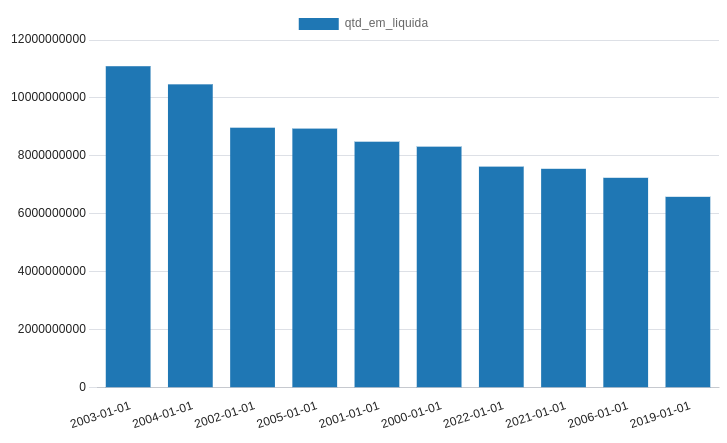
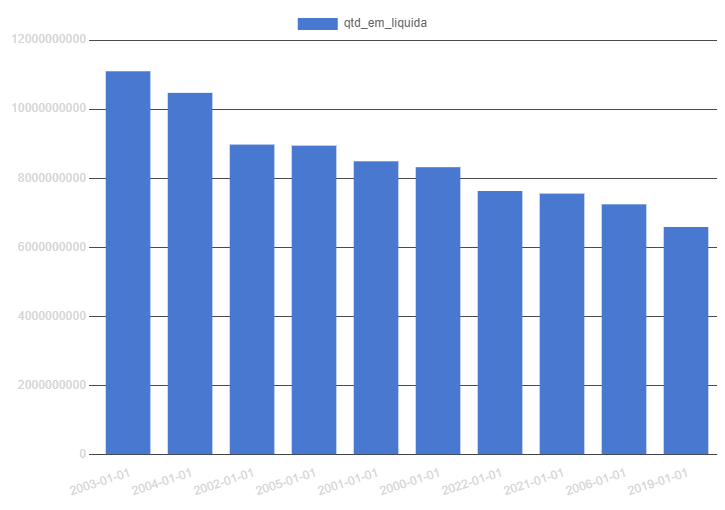
update Readme

diff --git a/README.md b/README.md
@@ -6,6 +6,7 @@
 * [Tecnologias utilizadas](#tecnologias-utilizadas)
 * [Datasets](#datasets)
 * [Consultas Geradas](#consultas-geradas)
+* [Gráficos dos resultados obtidos](#gráficos-dos-resultados-obtidos)
 
 ## Sobre o projeto
 Autores:
@@ -18,10 +19,14 @@ Autores:
 
 ## Modelagem do Banco de Dados
 ### Imagem 1: Modelo Conceitual (Diagrama MER)
-![](https://github.com/luizlenharo/MC536/blob/main/models/modeloConceitual.jpg)
+<p align="center">
+  <img src="./models/modeloConceitual.jpg" alt="Modelo Conceitual" width="700"/>
+</p>
 
 ### Imagem 2: Modelo Relacional
-![](https://github.com/luizlenharo/MC536/blob/main/models/modeloRelacional.png)
+<p align="center">
+  <img src="./models/modeloRelacional.png" alt="Modelo Relacional" width="700"/>
+</p>
 
 ## Tecnologias utilizadas
 * **Banco de dados:** `PostgreSQL`  
@@ -48,27 +53,46 @@ Autores:
 #### SEEG
 1. Deixamos apenas a página da planilha de dados.
 2. Selecionamos apenas as colunas referentes à origem, produto, gás e localização.
-3. Salvamos a planilha resultante em [`gasesEE-entidades.csv`](https://github.com/luizlenharo/MC536/blob/main/dataset/gasesEE-entidades.csv)
+3. Salvamos a planilha resultante em [`gasesEE-entidades.csv`](./dataset/gasesEE-entidades.csv)
 4. Retornamos para a planilha original (planilha de dados).
 5. Separamos a planilha de dados em 4 chunks de tamanho semelhante.
-6. Salvamos cada uma das partes em [`gasesEE-medicoes_Ci.csv`](https://github.com/luizlenharo/MC536/tree/main/dataset), sendo i o número de cada chunk
+6. Salvamos cada uma das partes em [`gasesEE-medicoes_Ci.csv`](./dataset), sendo i o número de cada chunk
 
 #### EMBRAPA
 1. Excluimos as colunas A, B, C, D, H, W, X e Y pois que possuíam informações desnecessárias para nossa utilização.
-2. Salvamos a planilha resultado em [cidadesPreserv.csv](https://github.com/luizlenharo/MC536/blob/main/dataset/cidadesPreserv.csv)
+2. Salvamos a planilha resultado em [cidadesPreserv.csv](./dataset/cidadesPreserv.csv)
 
 #### SCRIPT
 1. Utilizamos as planilhas resultantes para popular o banco
 
 ## Consultas Geradas
 
-1. Porcentagem da emissão de área rural sobre emissão total em um estado em determinado ano.
+1. Porcentagem da emissão da agropecuária sobre emissão total em um estado em determinado ano.
 
-2. Comparação entre `(emissão agropecuária/área rural)` e `(emissão indústria/área urbana)` em determinado ano ou evolução ao longo dos anos.
+2. Evolução da (emissão agropecuária/área rural) e (emissão indústria/área urbana) ao longo dos anos.
 
-3. Evolução da emissão de um determinado estado em relação aos outros em um período `(A evolução do estado X foi 2 vezes maior que a evolução média dos estados)`
+3. Aumento da emissão de gases em São Paulo e nos outros estados no período de 1970 - 2023 e comparação entre aumento de SP e média dos outros estados. <br> Obs:
+ Aumento relativo mostra a intensidade do crescimento de São Paulo em relação ao resto do Brasil
 
-4. Porcentagem de emissão dos top 5 produtos mais emissores na agropecuária
+4. Porcentagem de emissão dos top 5 produtos mais emissores na agropecuária.
 
-5. Top 10 anos com maior indice `(qtd_em/qtd_rem)` de gases causadores do efeito estufa (GEE)
+5. Top 10 anos com maior balanço *qtd_em* + *qtd_rem* no século 21.
 
+## Gráficos dos resultados obtidos
+Abaixo estão os gráficos gerados a partir dos resultados obtidos da [Query 2](./querys/query2.sql), [Query 4](./querys/query4.sql) e [Query 5](./querys/query5.sql). 
+
+* **Gráfico Query 2**: 
+<p align="center">
+  <img src="./results/query2/evolucaoGeral.png" alt="Query 2 result" width="700"/>
+</p>
+<br>
+* **Gráfico Query 4**:
+<p align="center">
+  <img src="./results/query4/top5Produtos.png" alt="Query 4 result" width="700"/>
+</p>
+<br>
+
+* **Gráfico Query 5**:
+<p align="center">
+  <img src="./results/query5/top10PioresEmissaoLiquida.png" alt="Modelo Conceitual" width="700"/>
+</p>
